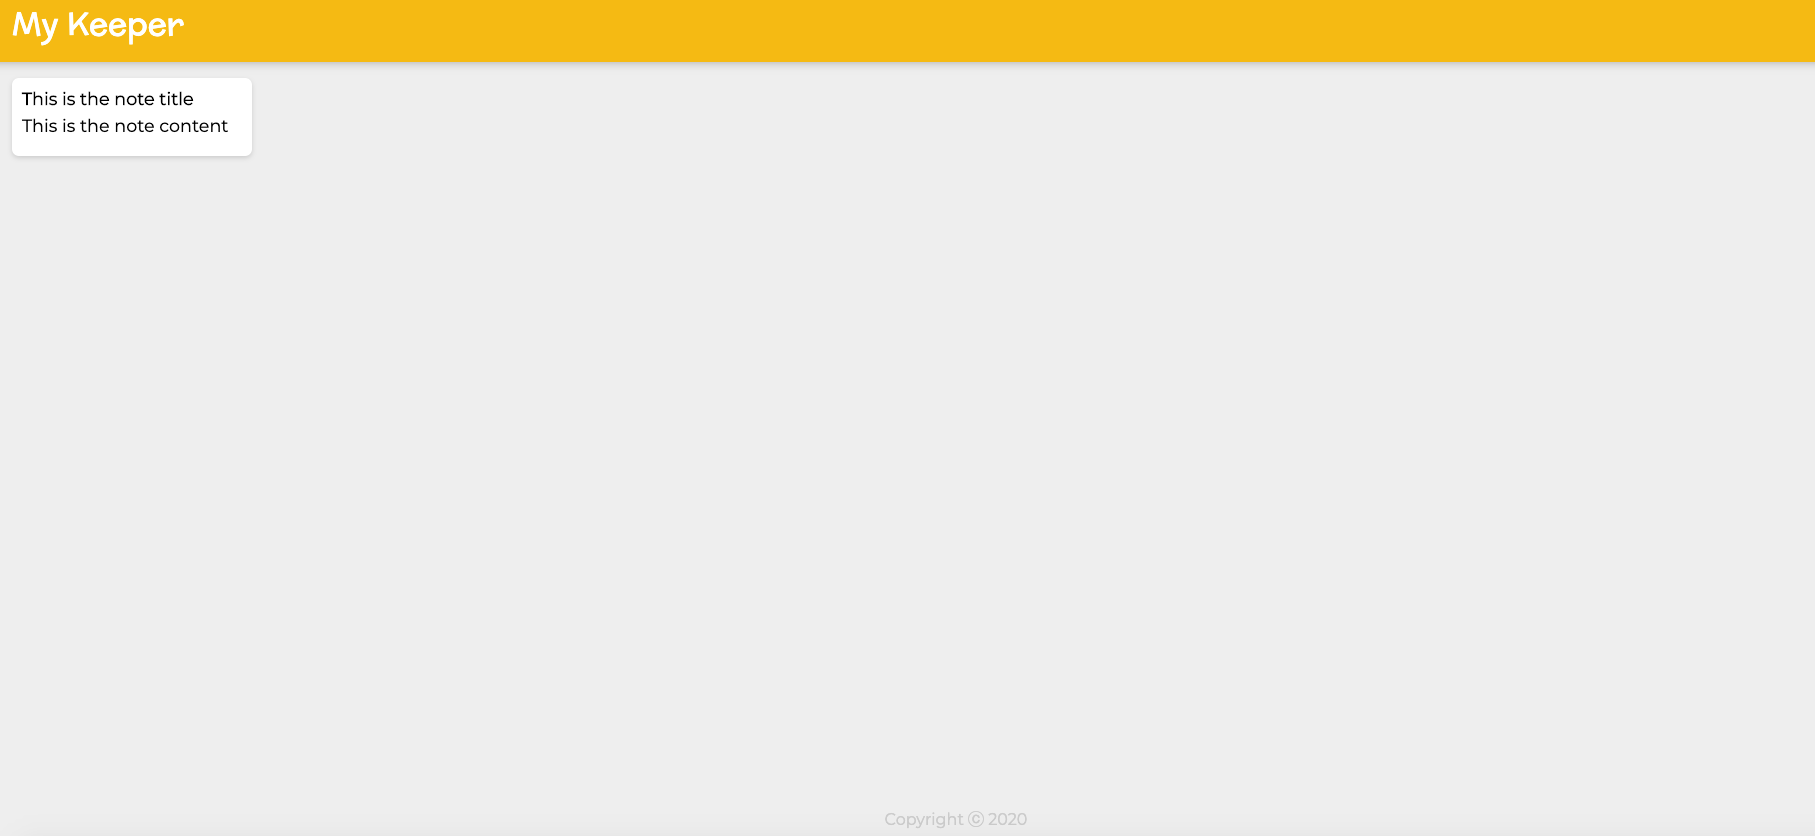
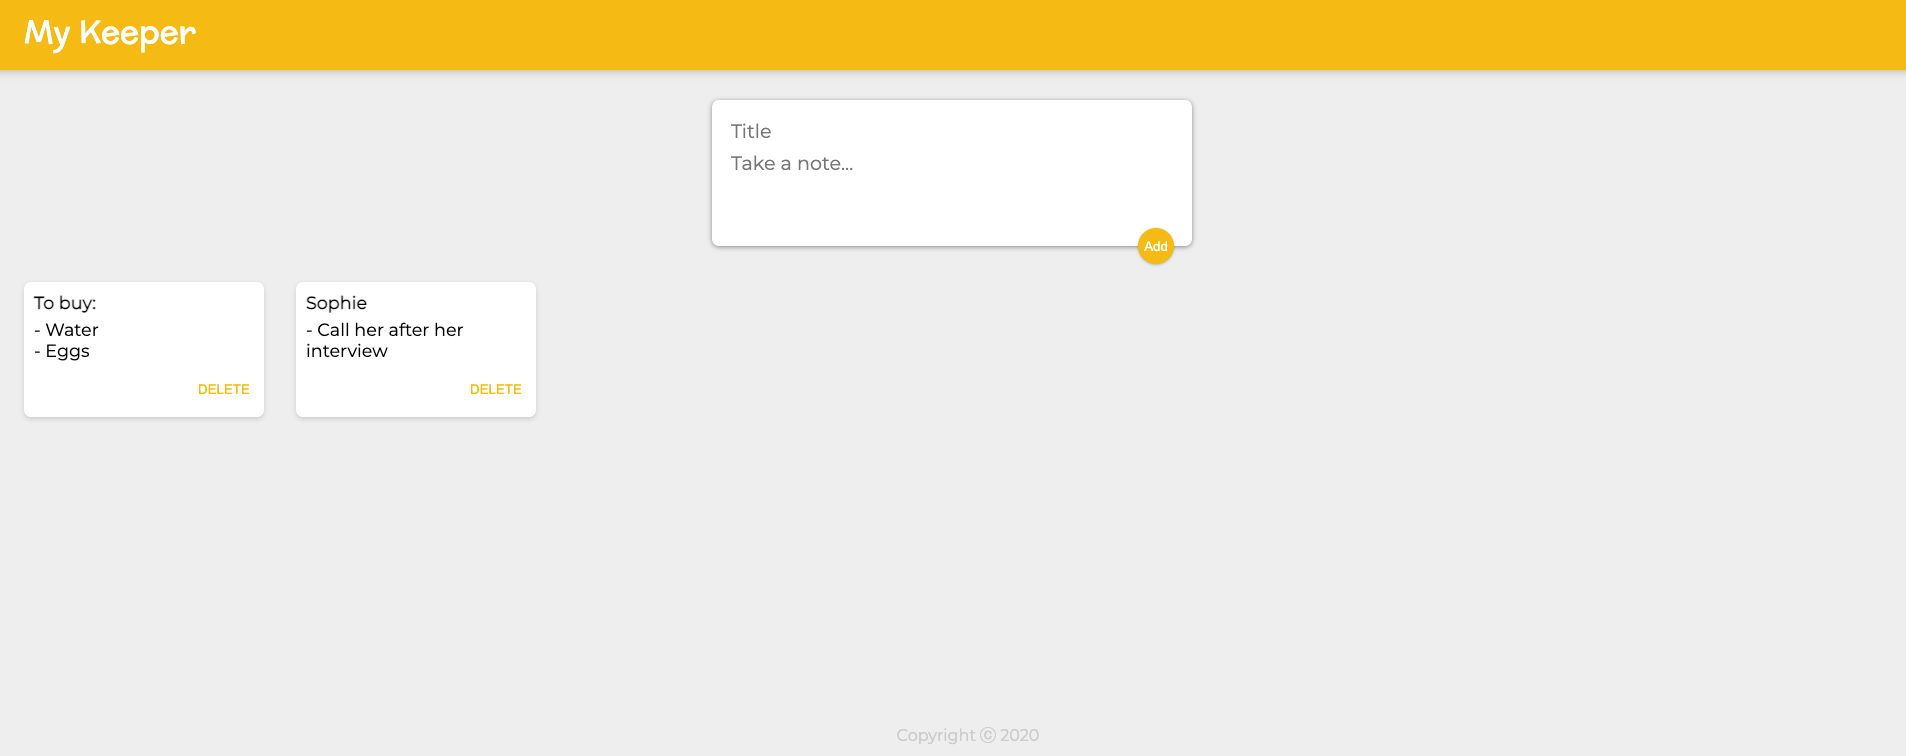
Possible to add and delete notes.

diff --git a/public/styles.css b/public/styles.css
@@ -3,9 +3,11 @@
   margin: 0;
   box-sizing: border-box;
 }
+
 html {
   font-family: "Montserrat", sans-serif;
 }
+
 body {
   background: #eee;
   padding: 0 16px;
@@ -35,6 +37,7 @@ footer {
 footer p {
   color: #ccc;
 }
+
 .note {
   background: #fff;
   border-radius: 7px;
@@ -44,13 +47,64 @@ footer p {
   margin: 16px;
   float: left;
 }
+
 .note h1 {
   font-size: 1.1em;
   margin-bottom: 6px;
 }
+
 .note p {
   font-size: 1.1em;
   margin-bottom: 10px;
   white-space: pre-wrap;
   word-wrap: break-word;
+}
+
+.note button {
+  position: relative;
+  float: right;
+  margin-right: 20px;
+  color: #f5ba13;
+  border: none;
+  width: 36px;
+  height: 36px;
+  cursor: pointer;
+  outline: none;
+  background: #fff;
+}
+
+form {
+  position: relative;
+  width: 480px;
+  margin: 30px auto 20px auto;
+  background: #fff;
+  padding: 15px;
+  border-radius: 7px;
+  box-shadow: 0 1px 5px rgb(138, 137, 137);
+}
+
+form input,
+form textarea {
+  width: 100%;
+  border: none;
+  padding: 4px;
+  outline: none;
+  font-size: 1.2em;
+  font-family: inherit;
+  resize: none;
+}
+
+form button {
+  position: absolute;
+  right: 18px;
+  bottom: -18px;
+  background: #f5ba13;
+  color: #fff;
+  border: none;
+  border-radius: 50%;
+  width: 36px;
+  height: 36px;
+  box-shadow: 0 1px 3px rgba(0, 0, 0, 0.3);
+  cursor: pointer;
+  outline: none;
 }

diff --git a/src/components/App.jsx b/src/components/App.jsx
@@ -1,20 +1,33 @@
-import React from "react"
+import React, { useState } from "react"
 import Header from "./Header"
 import Footer from "./Footer"
 import Note from "./Note"
-import notes from "../notes"
+import CreateArea from "./CreateArea"
 
 function App() {
+
+    const [notes, setNotes] = useState([]);
+
+    function addNote(note) {
+
+        setNotes((prevValue) => (
+            [...prevValue, note]
+        ));
+    }
+
+    function deleteNote(id) {
+
+        setNotes((prevValue) => (
+            prevValue.filter((note, index) => (index !== id))
+        ))
+    }
 
     return (
         <div>
             <Header />
-            {notes.map(note => (
-                <Note
-                    key={note.key}
-                    title={note.title}
-                    content={note.content}
-                />
+            <CreateArea onAdd={addNote} />
+            {notes.map((note, index) => (
+                < Note onDelete={deleteNote} key={index} id={index} title={note.title} content={note.content} />
             ))}
             <Footer />
         </div>

diff --git a/src/components/CreateArea.jsx b/src/components/CreateArea.jsx
@@ -1,0 +1,37 @@
+import React, { useState } from "react";
+
+function CreateArea(props) {
+
+    const [note, setNote] = useState({
+        title: "",
+        content: ""
+    });
+
+    function handleChange(event) {
+
+        const { name, value } = event.target;
+
+        setNote((prevValue) => ({ ...prevValue, [name]: value }));
+    }
+
+    function submitNote(event) {
+        props.onAdd(note)
+        setNote({
+            title: "",
+            content: ""
+        });
+        event.preventDefault();
+    }
+
+    return (
+        <div>
+            <form>
+                <input name="title" onChange={handleChange} placeholder="Title" value={note.title} />
+                <textarea name="content" onChange={handleChange} placeholder="Take a note..." rows="3" value={note.content} />
+                <button onClick={submitNote}>Add</button>
+            </form>
+        </div>
+    );
+}
+
+export default CreateArea;

diff --git a/src/components/Note.jsx b/src/components/Note.jsx
@@ -2,14 +2,18 @@ import React from "react"
 
 function Note(props) {
 
+    const title = props.title != null ? (props.title.length < 15 ? props.title : props.title.substring(1, 16) + " ...") : "";
+    const content = props.content != null ? (props.content.length < 150 ? props.content : props.content.substring(1, 151) + " ...") : "";
+
     return (
         <div className="note">
             <h1>
-                {props.title}
+                {title}
             </h1>
             <p>
-                {props.content}
+                {content}
             </p>
+            <button onClick={() => { props.onDelete(props.id) }}>DELETE</button>
         </div>
     )
 

diff --git a/src/index.js b/src/index.js
@@ -6,6 +6,3 @@ ReactDOM.render(
   <App />,
   document.getElementById("root")
 )
-
-//Challenge. Render all the notes inside notes.js as a seperate Note
-//component.
